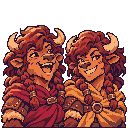
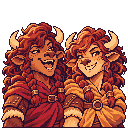
v61: Batch 08 heroes and portrait fixes, Love returns, Lune is Lunt
Claude-Session: https://claude.ai/code/session_019G5bQC3KGAYpQSZdre1Ejx

diff --git a/js/01-data.js b/js/01-data.js
@@ -158,7 +158,7 @@ const HEROES=[
   {id:'vargas',name:'Vargas',fac:'pirates',type:'Might',st:[3,1,1,1],ab:'Powder Master',ad:'Cannon Crews and Gunners +25% damage and +2 shots.',sk:['steadyaim'],sp:[],fx:{unitDmgPct:{cannon:1.25,gunner:1.25},unitShots:{cannon:2,gunner:2}}},
   {id:'sheila',name:'Sheila',fac:'pirates',type:'Magic',st:[0,1,2,2],ab:'Weatherwise',ad:'Squall costs half and hits 30% harder.',sk:[],sp:['squall'],fx:{squallHalf:true,squallPct:1.3}},
   {id:'davis',name:'Davis',retired:true,fac:'elves',type:'Might',st:[2,1,1,1],ab:'Master Archer',ad:'Longbow Rangers +1 damage and +4 shots.',sk:['steadyaim'],sp:[],fx:{unitDmgFlat:{longbow:1},unitShots:{longbow:4}}},
-  {id:'love',retired:true,name:'Love',fac:'elves',type:'Magic',st:[0,1,2,2],ab:'Heartbloom',ad:'Healing spells also give the target +1 morale for the battle.',sk:[],sp:['mend'],fx:{healMorale:1}},
+  {id:'love',tav:true,name:'Love',fac:'elves',type:'Magic',st:[0,1,2,2],ab:'Lute of Hearts',ad:'Healing spells also give the target +1 morale for the battle.',sk:[],sp:['mend'],fx:{healMorale:1}},
   {id:'ivan',name:'Ivan',fac:'dwarves',type:'Might',st:[2,2,1,1],ab:'Master Smith',ad:'The Great Forge costs half the ore, and forged troops get +1 more attack.',sk:['shieldcraft'],sp:[],fx:{forgeCut:0.5,forgePlus:1}},
   {id:'rago',name:'Rago',fac:'necro',type:'Magic',st:[1,1,2,2],ab:'Hex Mistress',ad:'Vampires +2 attack and +2 speed.',sk:['battleplan'],sp:['ember'],fx:{unitAtk:{vampire:2},unitSpd:{vampire:2}}},
   {id:'dupengeiser',name:'Dupengeiser',fac:'dwarves',type:'Magic',st:[1,1,2,2],ab:'Steamcaller',ad:'Once per battle, raise a scalding geyser beside an enemy.',sk:['warding'],sp:['geyser'],fx:{}},
@@ -240,7 +240,7 @@ HEROES.push(
   {id:'ada',tav:true,name:'Ada',fac:'wizards',type:'Might',st:[2,2,1,1],ab:'Owl Knight',ad:'Owl Familiars +2 attack and +2 defense.',sk:['farsight'],sp:[],fx:{unitAtk:{owl:2},unitDef:{owl:2}}},
   {id:'mara',tav:true,name:'Mara',fac:'necro',type:'Might',st:[2,2,1,1],ab:'Gravekeeper',ad:'Zombies +2 attack and +2 defense, and +1 vision.',sk:['farsight'],sp:[],fx:{unitAtk:{zombie:2},unitDef:{zombie:2},vision:1}},
   {id:'ivy',name:'Ivy',fac:'elves',type:'Might',st:[3,1,1,1],ab:'Archer-Captain',ad:'Longbow Rangers +2 attack and +1 speed.',sk:['steadyaim'],sp:[],fx:{unitAtk:{longbow:2},unitSpd:{longbow:1}}},
-  {id:'lune',name:'Lune',fac:'elves',type:'Magic',st:[0,1,2,3],ab:'Moon-Singer',ad:'Sprites +2 speed, and your whole army +1 luck.',sk:['meditation'],sp:['mend'],fx:{unitSpd:{sprite:2},luck:1}},
+  {id:'lune',name:'Lunt',fac:'elves',type:'Magic',st:[0,1,2,3],ab:'Moon-Singer',ad:'Sprites +2 speed, and your whole army +1 luck.',sk:['meditation'],sp:['mend'],fx:{unitSpd:{sprite:2},luck:1}},
   {id:'hart',tav:true,name:'Hart',fac:'elves',type:'Might',st:[2,2,1,1],ab:'Stag Ranger',ad:'+10% movement, and Giant Eagles +2 attack.',sk:['forcedmarch'],sp:[],fx:{mpPct:10,unitAtk:{eagle:2}}},
   {id:'orla',tav:true,name:'Orla',fac:'dwarves',type:'Magic',st:[0,2,2,2],ab:'Rune Priest',ad:'Gem Golems +2 defense, and Mend heals 50% more.',sk:['meditation'],sp:['mend'],fx:{unitDef:{golem:2},mendPct:1.5}},
   {id:'kit_and_nell',name:'Kit & Nell',fac:'dwarves',type:'Might',st:[2,2,1,1],ab:'Twin Tinkers',ad:'Dwarf Paladins +2 growth per week and +1 speed.',sk:['fortune'],sp:[],fx:{growth:{paladin:2},unitSpd:{paladin:1}}},
@@ -320,6 +320,16 @@ HEROES.push(
   {id:'stargirl',tav:true,student:true,name:'Stargirl',fac:'merfolk',type:'Might',st:[2, 1, 1, 2],ab:'Throwing Stars',ad:'Sirens +2 attack and +1 speed.',sk:['bladework'],sp:[],fx:{unitAtk:{siren:2},unitSpd:{siren:1}}},
   {id:'mangrove',tav:true,student:true,name:'Mangrove',fac:'merfolk',type:'Might',st:[1, 2, 1, 2],ab:'Avocado Staff',ad:'Turtle Knights +2 defense and +1 attack.',sk:['shieldcraft'],sp:[],fx:{unitDef:{turtle:2},unitAtk:{turtle:1}}},
   {id:'gerry',tav:true,student:true,name:'Gerry',fac:'wizards',type:'Might',st:[2, 1, 1, 2],ab:'Lantern Burst',ad:'Storm Elementals +2 attack.',sk:['bladework'],sp:['spark'],fx:{unitAtk:{stormel:2}}},
+  /* v61: Batch 08 */
+  {id:'teeka',tav:true,student:true,name:'Teeka',fac:'merfolk',type:'Magic',st:[0, 1, 3, 2],ab:'Bluebird Song',ad:'Sirens +3 growth per week, and +1 vision.',sk:['meditation'],sp:['mend'],fx:{growth:{siren:3},vision:1}},
+  {id:'python_mage',tav:true,student:true,name:'Python Mage',fac:'centaurs',type:'Magic',st:[0, 2, 2, 2],ab:'Coil Charm',ad:'Boars +2 defense, and +1 luck for the whole army.',sk:['meditation'],sp:['entangle'],fx:{unitDef:{boar:2},luck:1}},
+  {id:'vash',tav:true,student:true,name:'Vash',fac:'wizards',type:'Magic',st:[0, 1, 3, 2],ab:'Rune Cards',ad:'Archmages +2 attack, and +1 luck for the whole army.',sk:['sorcery'],sp:['spark'],fx:{unitAtk:{magus:2},luck:1}},
+  {id:'anastasia_may_dvestia',tav:true,student:true,name:'Anastasia May Dvestia',fac:'rangers',type:'Might',st:[2, 2, 1, 1],ab:'Kitten Keeper',ad:'Reedbows +2 attack and +1 speed.',sk:['bladework'],sp:[],fx:{unitAtk:{reed:2},unitSpd:{reed:1}}},
+  {id:'babka',tav:true,student:true,name:'Babka',fac:'dwarves',type:'Might',st:[2, 1, 1, 2],ab:'Battle Shout',ad:'Young Dwarves +2 attack, and your whole army +1 morale.',sk:['command'],sp:[],fx:{unitAtk:{delver:2},morale:1}},
+  {id:'emirk',tav:true,student:true,name:'Emirk',fac:'necro',type:'Might',st:[3, 1, 1, 1],ab:'Mighty Grip',ad:'Werewolves +2 attack and +1 defense.',sk:['bladework'],sp:[],fx:{unitAtk:{werewolf:2},unitDef:{werewolf:1}}},
+  {id:'friendo',tav:true,student:true,name:'Friendo',fac:'necro',type:'Magic',st:[0, 1, 3, 2],ab:'Skull Staff',ad:'Skeletons +3 growth per week and +1 defense.',sk:['meditation'],sp:['ember'],fx:{growth:{skeleton:3},unitDef:{skeleton:1}}},
+  {id:'teo',tav:true,student:true,name:'Teo',fac:'dwarves',type:'Magic',st:[0, 2, 2, 2],ab:'Clockwork Pharaoh',ad:'Gem Golems +2 defense and +1 attack.',sk:['meditation'],sp:['mend'],fx:{unitDef:{golem:2},unitAtk:{golem:1}}},
+  {id:'tida',tav:true,student:true,name:'Tida',fac:'rangers',type:'Might',st:[2, 2, 1, 1],ab:'Buffer',ad:'Antler Knights +2 attack.',sk:['bladework'],sp:['mend'],fx:{unitAtk:{antler:2}}},
   {id:'eden',name:'Eden',fac:'elves',type:'Magic',st:[0,1,2,2],ab:'Master Archer',ad:'Longbow Rangers +1 damage and +4 shots.',sk:['steadyaim'],sp:[],fx:{unitDmgFlat:{longbow:1},unitShots:{longbow:4}}},
   {id:'letchworth',name:'Letchworth',fac:'merfolk',type:'Magic',st:[0,1,2,2],ab:'Siren Keeper',ad:'Sirens +2 shots and +1 damage.',sk:[],sp:['squall'],fx:{unitShots:{siren:2},unitDmgFlat:{siren:1}}},
 );
@@ -383,7 +393,7 @@ const START_KIT={bear:['command','sash'],perry:['shieldcraft','buckler'],boone:[
   elvis:['command','sash'],mer2:['shieldcraft','kettle'],rocky:['forcedmarch','sash'],letchworth:['meditation','breath']};
 HEROES.forEach(h=>{const k=START_KIT[h.id];if(k){h.sk=[k[0]];h.item=k[1];}});
 /* v41: every hero starts with an artifact (the newer heroes had none) */
-const START_ITEM={'nohahahahah':'errands','yatt':'sash','boja':'buckler','poison':'buckler','paitence_and_jay':'buckler','liam':'buckler','cornelius_ii':'inkwell','ward':'inkwell','sir_quackars':'inkwell','sir_giggachins':'buckler','buffalo':'inkwell','ella':'inkwell','sus':'buckler','samba':'inkwell','alora':'buckler','ezlen':'inkwell','stargirl':'buckler','mangrove':'buckler','gerry':'buckler','bort_simesin':'buckler','gunt_gunt':'buckler','azure_hype':'inkwell','ericsonion':'inkwell','ardcat':'buckler','space_toad':'buckler','mr_pinecone':'buckler','nix':'inkwell','deepwave_the_ai':'inkwell','bobbythebob':'inkwell','capydara':'buckler','lishy':'buckler','kushalito_banana':'buckler','fut_esports':'inkwell','noel_dragonfire':'buckler','luckenzo':'inkwell','lord_krishna':'inkwell','bananna':'inkwell','nala':'inkwell','nanya':'inkwell','posy_spinner':'inkwell','catherine':'inkwell','bristle':'buckler','zenvy':'buckler','king_pharoph_the_3rd':'buckler','rose_flower':'inkwell','posy':'inkwell','bannana_boy':'inkwell','spirit_of_the_forest':'buckler','ava_young':'inkwell','rosie':'inkwell','celestine_circe':'inkwell','estella':'inkwell','lily':'inkwell','pottery':'inkwell','kaf_underworld_pharaoh':'buckler','gus_and_glen':'errands','midge':'inkwell','mags_and_mae':'spark','bloop':'inkwell','gleam':'purse','odo_and_otto':'buckler','aster_and_briar':'breath','rue':'cloak','ned_and_nat':'bracer','spike':'buckler','rafe_and_reed':'purse','bo':'errands','bess_and_bea':'buckler','gilt':'rabbit','fin_and_flo':'breath','vera':'buckler','remy':'spark','ada':'cloak','mara':'candle','ivy':'bracer','lune':'inkwell','hart':'errands','orla':'breath','kit_and_nell':'purse','cato':'inkwell','sid_and_tess':'rabbit','wren':'errands','rumble':'buckler','payton':'rabbit','nissa':'cloak','livingston_cyborg':'bracer','enzo':'buckler','axel':'breath','dot':'errands','gale':'spark','zahara': 'errands', 'tembor': 'buckler', 'cresset': 'candle', 'nessa_holt': 'errands', 'reedcall': 'bracer', 'purl': 'inkwell', 'quillby': 'purse', 'sera_venn': 'breath', 'gliss': 'spark', 'veyra': 'spark', 'graven': 'buckler', 'ossin': 'inkwell', 'murmur': 'cloak', 'rattleclaw': 'whetstone', 'silka': 'candle', 'flintback': 'kettle', 'inkwake': 'cudgel', 'saltjaw': 'whetstone', 'pip_quickline': 'cloak', 'bess_bell': 'errands', 'rusk_hookhorn': 'cudgel', 'ilyra': 'breath', 'tavian': 'whetstone', 'yselle': 'inkwell', 'aster': 'candle', 'thornfrill': 'buckler', 'brynja': 'cudgel', 'tansy': 'bracer', 'kiln': 'kettle', 'harlan_chalk': 'buckler', 'morel': 'rabbit', 'spindle': 'errands', 'skimmer': 'whetstone', 'atoll': 'spark', 'iona_shoal': 'breath', 'nerka': 'cudgel', 'alderhide': 'buckler', 'briar': 'cloak', 'mossback': 'breath', 'virel': 'rabbit'};
+const START_ITEM={'teeka':'inkwell','python_mage':'inkwell','vash':'inkwell','anastasia_may_dvestia':'buckler','babka':'sash','emirk':'buckler','friendo':'inkwell','teo':'inkwell','tida':'buckler','nohahahahah':'errands','yatt':'sash','boja':'buckler','poison':'buckler','paitence_and_jay':'buckler','liam':'buckler','cornelius_ii':'inkwell','ward':'inkwell','sir_quackars':'inkwell','sir_giggachins':'buckler','buffalo':'inkwell','ella':'inkwell','sus':'buckler','samba':'inkwell','alora':'buckler','ezlen':'inkwell','stargirl':'buckler','mangrove':'buckler','gerry':'buckler','bort_simesin':'buckler','gunt_gunt':'buckler','azure_hype':'inkwell','ericsonion':'inkwell','ardcat':'buckler','space_toad':'buckler','mr_pinecone':'buckler','nix':'inkwell','deepwave_the_ai':'inkwell','bobbythebob':'inkwell','capydara':'buckler','lishy':'buckler','kushalito_banana':'buckler','fut_esports':'inkwell','noel_dragonfire':'buckler','luckenzo':'inkwell','lord_krishna':'inkwell','bananna':'inkwell','nala':'inkwell','nanya':'inkwell','posy_spinner':'inkwell','catherine':'inkwell','bristle':'buckler','zenvy':'buckler','king_pharoph_the_3rd':'buckler','rose_flower':'inkwell','posy':'inkwell','bannana_boy':'inkwell','spirit_of_the_forest':'buckler','ava_young':'inkwell','rosie':'inkwell','celestine_circe':'inkwell','estella':'inkwell','lily':'inkwell','pottery':'inkwell','kaf_underworld_pharaoh':'buckler','gus_and_glen':'errands','midge':'inkwell','mags_and_mae':'spark','bloop':'inkwell','gleam':'purse','odo_and_otto':'buckler','aster_and_briar':'breath','rue':'cloak','ned_and_nat':'bracer','spike':'buckler','rafe_and_reed':'purse','bo':'errands','bess_and_bea':'buckler','gilt':'rabbit','fin_and_flo':'breath','vera':'buckler','remy':'spark','ada':'cloak','mara':'candle','ivy':'bracer','lune':'inkwell','hart':'errands','orla':'breath','kit_and_nell':'purse','cato':'inkwell','sid_and_tess':'rabbit','wren':'errands','rumble':'buckler','payton':'rabbit','nissa':'cloak','livingston_cyborg':'bracer','enzo':'buckler','axel':'breath','dot':'errands','gale':'spark','zahara': 'errands', 'tembor': 'buckler', 'cresset': 'candle', 'nessa_holt': 'errands', 'reedcall': 'bracer', 'purl': 'inkwell', 'quillby': 'purse', 'sera_venn': 'breath', 'gliss': 'spark', 'veyra': 'spark', 'graven': 'buckler', 'ossin': 'inkwell', 'murmur': 'cloak', 'rattleclaw': 'whetstone', 'silka': 'candle', 'flintback': 'kettle', 'inkwake': 'cudgel', 'saltjaw': 'whetstone', 'pip_quickline': 'cloak', 'bess_bell': 'errands', 'rusk_hookhorn': 'cudgel', 'ilyra': 'breath', 'tavian': 'whetstone', 'yselle': 'inkwell', 'aster': 'candle', 'thornfrill': 'buckler', 'brynja': 'cudgel', 'tansy': 'bracer', 'kiln': 'kettle', 'harlan_chalk': 'buckler', 'morel': 'rabbit', 'spindle': 'errands', 'skimmer': 'whetstone', 'atoll': 'spark', 'iona_shoal': 'breath', 'nerka': 'cudgel', 'alderhide': 'buckler', 'briar': 'cloak', 'mossback': 'breath', 'virel': 'rabbit'};
 HEROES.forEach(h=>{if(!h.item&&START_ITEM[h.id])h.item=START_ITEM[h.id];});
 /* starting stats: one higher across the board, more on each hero's main stat, and a personal extra point */
 for(const h of HEROES){if(h._st)continue;h._st=1;const r=hash(h.id);h.st=h.st.map(v=>v+1);const main=h.type==='Might'?(h.st[0]>=h.st[1]?0:1):(h.st[2]>=h.st[3]?2:3);h.st[main]+=1+(r%2);h.st[(r>>>3)%4]+=1;}

diff --git a/js/02-art.js b/js/02-art.js
@@ -237,7 +237,7 @@ function drawRelic(c,i,x,y,r){const Rl=RELICS[i];c.save();c.translate(x,y);c.sca
 const ART_BASE='assets/';
 /* Tavern Recruits (v37): 19 portraits packed in portraits/heroes/recruits.png (10 a row, 128 px) so the published copy stays under its file limit.
    Cropped to a data URL once the atlas loads; on file:// (canvas export blocked) or before it loads, use the single file. */
-const RECRUIT_PORT=['alderhide','briar','mossback','ilyra','tavian','yselle','veyra','graven','ossin','spindle','skimmer','atoll','brynja','tansy','kiln','purl','quillby','folio','cresset','inkwake','saltjaw','pip_quickline','zahara','tembor','virel','nessa_holt','reedcall','sera_venn','gliss','murmur','rattleclaw','silka','flintback','bess_bell','rusk_hookhorn','aster','thornfrill','harlan_chalk','morel','iona_shoal','nerka','axel','dot','enzo','gale','livingston_cyborg','nissa','payton','vera','remy','ada','mara','ivy','lune','hart','orla','kit_and_nell','cato','sid_and_tess','wren','rumble','gus_and_glen','midge','mags_and_mae','bloop','gleam','odo_and_otto','aster_and_briar','rue','ned_and_nat','spike','rafe_and_reed','bo','bess_and_bea','gilt','fin_and_flo','bort_simesin','gunt_gunt','azure_hype','ericsonion','ardcat','space_toad','mr_pinecone','nix','deepwave_the_ai','bobbythebob','capydara','lishy','kushalito_banana','fut_esports','noel_dragonfire','luckenzo','lord_krishna','bananna','nala','nanya','posy_spinner','catherine','bristle','zenvy','king_pharoph_the_3rd','rose_flower','posy','bannana_boy','spirit_of_the_forest','ava_young','rosie','celestine_circe','estella','lily','pottery','kaf_underworld_pharaoh','nohahahahah','yatt','boja','poison','paitence_and_jay','liam','cornelius_ii','ward','sir_quackars','sir_giggachins','buffalo','ella','sus','samba','alora','ezlen','stargirl','mangrove','gerry'];
+const RECRUIT_PORT=['alderhide','briar','mossback','ilyra','tavian','yselle','veyra','graven','ossin','spindle','skimmer','atoll','brynja','tansy','kiln','purl','quillby','folio','cresset','inkwake','saltjaw','pip_quickline','zahara','tembor','virel','nessa_holt','reedcall','sera_venn','gliss','murmur','rattleclaw','silka','flintback','bess_bell','rusk_hookhorn','aster','thornfrill','harlan_chalk','morel','iona_shoal','nerka','axel','dot','enzo','gale','livingston_cyborg','nissa','payton','vera','remy','ada','mara','ivy','lune','hart','orla','kit_and_nell','cato','sid_and_tess','wren','rumble','gus_and_glen','midge','mags_and_mae','bloop','gleam','odo_and_otto','aster_and_briar','rue','ned_and_nat','spike','rafe_and_reed','bo','bess_and_bea','gilt','fin_and_flo','bort_simesin','gunt_gunt','azure_hype','ericsonion','ardcat','space_toad','mr_pinecone','nix','deepwave_the_ai','bobbythebob','capydara','lishy','kushalito_banana','fut_esports','noel_dragonfire','luckenzo','lord_krishna','bananna','nala','nanya','posy_spinner','catherine','bristle','zenvy','king_pharoph_the_3rd','rose_flower','posy','bannana_boy','spirit_of_the_forest','ava_young','rosie','celestine_circe','estella','lily','pottery','kaf_underworld_pharaoh','nohahahahah','yatt','boja','poison','paitence_and_jay','liam','cornelius_ii','ward','sir_quackars','sir_giggachins','buffalo','ella','sus','samba','alora','ezlen','stargirl','mangrove','gerry','teeka','python_mage','vash','anastasia_may_dvestia','babka','emirk','friendo','teo','tida'];
 const recruitCache={};
 function recruitPortrait(id){if(recruitCache[id])return recruitCache[id];const a=artImg('portraits/heroes/recruits.png'),i=RECRUIT_PORT.indexOf(id),file=ART_BASE+`portraits/heroes/${id}_128.png`;
   if(!a.ok)return file;try{const cv=document.createElement('canvas');cv.width=cv.height=128;cv.getContext('2d').drawImage(a.img,(i%10)*128,Math.floor(i/10)*128,128,128,0,0,128,128);return recruitCache[id]=cv.toDataURL();}catch(e){return recruitCache[id]=file;}}
@@ -335,7 +335,7 @@ function iconURL(kind,key,size=64){
   if(kind==='gem')return ART_BASE+`gems/${key}.png`;
   if(kind==='hero'&&HBY[key]&&HBY[key].custom&&HBY[key].port)return HBY[key].port;
   if(kind==='hero'&&RECRUIT_PORT.includes(key))return recruitPortrait(key);
-  if(kind==='hero'&&ART_PORTRAITS.has(key))return ART_BASE+`portraits/heroes/${key}_128.png?v=48`;
+  if(kind==='hero'&&ART_PORTRAITS.has(key))return ART_BASE+`portraits/heroes/${key}_128.png?v=61`;
   if(kind==='unit'&&ENEMY_ART[key])return ART_BASE+`portraits/enemies/${ENEMY_ART[key]}_64.png`;
   if(kind==='unit'&&stripArt(key))return ART_BASE+`portraits/units/${stripArt(key)}_128.png`;
   if(kind==='unit'&&unitArt(key))return ART_BASE+`portraits/units/${unitArt(key)}_64.png`;

diff --git a/js/10-save.js b/js/10-save.js
@@ -63,7 +63,7 @@ function migrateRoster(st){if(!st||st.roster>=2)return;const M={};for(const[f,ol
   walk(st);st.roster=2;}
 /* saves from before v25: new resources, and cities and rival homes you already hold become full towns */
 /* v43 renames: old default name → new name, applied to saved heroes that still carry the old name */
-const OLD_NAMES={harlan_chalk:['Harlan Chalk','Harlan'],reedcall:['Reedcall','Crestwind'],veyra:['Veyra','Vesra','Mira','Willa'],ossin:['Ossin','Osrin','Dusty'],graven:['Graven','Lore'],zahara:['Zahara','Zarra'],tembor:['Tembor','India'],cresset:['Cresset','Wick'],yselle:['Yselle','Fern'],atoll:['Atoll','Coral'],bess_bell:['Bess Bell','Bonnie'],virel:['Virel','Plume'],silka:['Silka','Ivy','Violet'],murmur:['Murmur','Hush'],tansy:['Tansy','Penny'],briar:['Briar','Rusty'],lord_krishna:['Lord Krishna','Larishna'],catherine:['Catherine','Katherine'],rosie:['Rosie','Rousie']};
+const OLD_NAMES={lune:['Lune','Lunt'],harlan_chalk:['Harlan Chalk','Harlan'],reedcall:['Reedcall','Crestwind'],veyra:['Veyra','Vesra','Mira','Willa'],ossin:['Ossin','Osrin','Dusty'],graven:['Graven','Lore'],zahara:['Zahara','Zarra'],tembor:['Tembor','India'],cresset:['Cresset','Wick'],yselle:['Yselle','Fern'],atoll:['Atoll','Coral'],bess_bell:['Bess Bell','Bonnie'],virel:['Virel','Plume'],silka:['Silka','Ivy','Violet'],murmur:['Murmur','Hush'],tansy:['Tansy','Penny'],briar:['Briar','Rusty'],lord_krishna:['Lord Krishna','Larishna'],catherine:['Catherine','Katherine'],rosie:['Rosie','Rousie']};
 function migrateTowns(st){[...(st.heroes||[]),...(st.rivals||[]),...((st.players||[]).flatMap(p=>p&&p.heroes||[]))].forEach(h=>{if(h&&h.id==='elvis'&&h.name==='Elvis')h.name='Eelvis';if(h&&OLD_NAMES[h.id]&&OLD_NAMES[h.id].slice(0,-1).includes(h.name))h.name=OLD_NAMES[h.id].at(-1);});/* v27: the Ranger is now id perry and the Elf id eden (ids match names; new portraits) */
   if(!st.ids27){st.ids27=1;for(const h of [...(st.heroes||[]),...(st.rivals||[]),...(st.players||[]).flatMap(q=>q.heroes||[])]){if(h.id==='eden'){h.id='perry';if(h.name==='Eden'||h.name==='Perry')h.name='Perry';}else if(h.id==='perry'){h.id='eden';if(h.name==='Perry'||h.name==='Eden')h.name='Eden';}}}
   const fix=r=>{if(r)for(const k of RES)if(r[k]==null)r[k]=0;};fix(st.res);(st.players||[]).forEach(q=>fix(q.res));

diff --git a/CLAUDE.md b/CLAUDE.md
@@ -223,6 +223,11 @@ Everything lives in one object, `S`, so it can be saved as JSON:
 - New ability hooks (player side only): `forgePlus` (extra Great Forge attack), `armyDef` (whole army defense), `rangedPct` (shooter damage), `halfCost` (one spell at half mana), `manaCut` (all spells cheaper), `squallPct`, `weakenPct`.
 - Raised: Ivan (Forge half ore, +1 more attack), Oliver (30% cheaper rough ground, +5% movement), Shadow (harvest 20%), Sheila (Squall +30%), Grimes and Griffiths (+1 speed to their troop). Made distinct: Veyra, Gliss, Silka, Murmur, Boone, Mossback, Aster, Nessa Holt. Trimmed: Schmickle and Quillby to +200 gold a day. Battaglia is a Might hero.
 
+### v61 Batch 08
+
+- Nine more student heroes (`student:true, tav:true`, after Gerry): Merfolk Teeka (Sirens growth, +1 vision); Beastmasters Python Mage (Boars, +1 luck); Wizards Vash (Archmages, +1 luck); Rangers Anastasia May Dvestia (Reedbows) and Tida (Antler Knights +2 attack, Mend, from the student); Dwarves Babka (Young Dwarves, +1 morale) and Teo (Gem Golems); Necromancers Emirk (Werewolves) and Friendo (Skeletons growth). `RECRUIT_PORT`/`recruits.png` hold 140 portraits.
+- New portraits for Gilt, Bess & Bea, Rumble, Livingston and Love; Love is back as an Elves tavern hero (Lute of Hearts). Lune is now Lunt (`OLD_NAMES`). Portrait URLs carry `?v=61`. The pack's other removals (Tabby Wanderer, Nerissa, Jason, Christian) were never in the game.
+
 ### v60 student batches 6 and 7, roster trim
 
 - 19 more student heroes (`student:true, tav:true`, after Kaf in `HEROES`), banners and abilities chosen to fit each picture: Beastmasters Nohahahahah (+15% movement), Boja (Lions), Paitence & Jay (Hounds); Merfolk Yatt (Coral Colossi, +1 morale), Stargirl (Sirens), Mangrove (Turtle Knights); Elves Poison (Grove Wardens), Ella (+150 gold a day), Ezlen (Giant Eagles); Rangers Cornelius II (Thornguard growth), Ward (Oak Wardens); Wizards Sir Quackars (Owl Familiars), Buffalo (Apprentice Mages), Gerry (Storm Elementals); Necromancers Sus (Zombies), Samba (Skeletons); Pirates Liam (Duelists), Alora (Powder Monkeys); Dwarves Sir Giggachins (Paladins). Estella has a new portrait. `RECRUIT_PORT`/`recruits.png` hold 131 portraits (14 rows).

diff --git a/LEGAL.md b/LEGAL.md
@@ -62,6 +62,7 @@ No other libraries, images or audio are included. Art made later with ChatGPT or
 | Twins & Tavern Heroes: 15 hero portraits in `assets/portraits/heroes/` and `recruits.png` | Supplied by the author (generated pixel art, ChatGPT) | 2026-11-13 | Invented characters |
 | Legacy Portrait Redesigns (10) and Student Heroes batches 1, 3, 4, 5 (36 portraits) in `assets/portraits/heroes/` and `recruits.png` | Supplied by the author (generated pixel art, ChatGPT, from students' Create a hero worksheets) | 2026-11-14 | Characters designed by students, used with the author's permission |
 | Student Heroes batches 6 and 7 (19 new portraits and a redrawn Estella) in `assets/portraits/heroes/` and `recruits.png` | Supplied by the author (generated pixel art, ChatGPT, from students' Create a hero worksheets) | 2026-11-14 | Characters designed by students, used with the author's permission |
+| Batch 08 Hero Fixes (9 new student heroes; redrawn Gilt, Bess & Bea, Rumble, Livingston, Love) in `assets/portraits/heroes/` and `recruits.png` | Supplied by the author (generated pixel art, ChatGPT, from students' worksheets and the author's notes) | 2026-11-15 | Student characters used with the author's permission |
 | Half-size move cursor (`assets/ui/cursors/move_small.png`) | Downscaled locally from Pack 09's move cursor | 2026-11-08 | Same as above |
 
 The generated source images (high-res magenta PNGs) are kept outside this repo.
